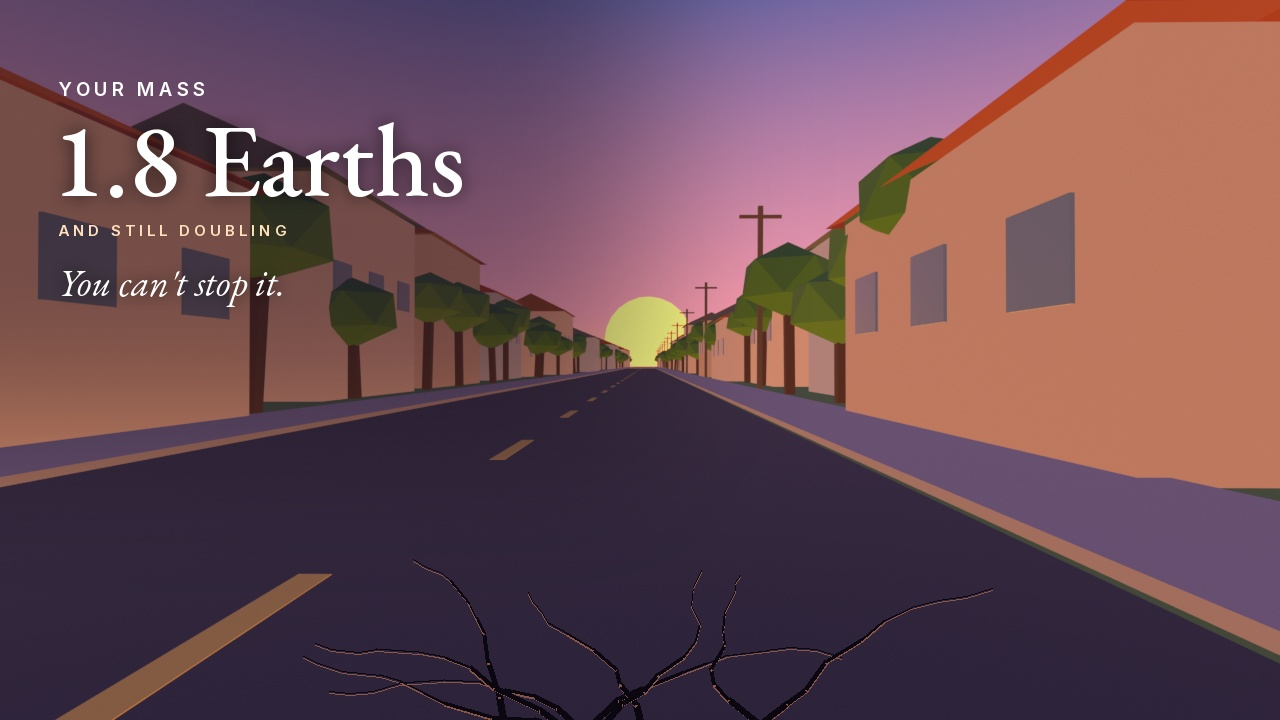
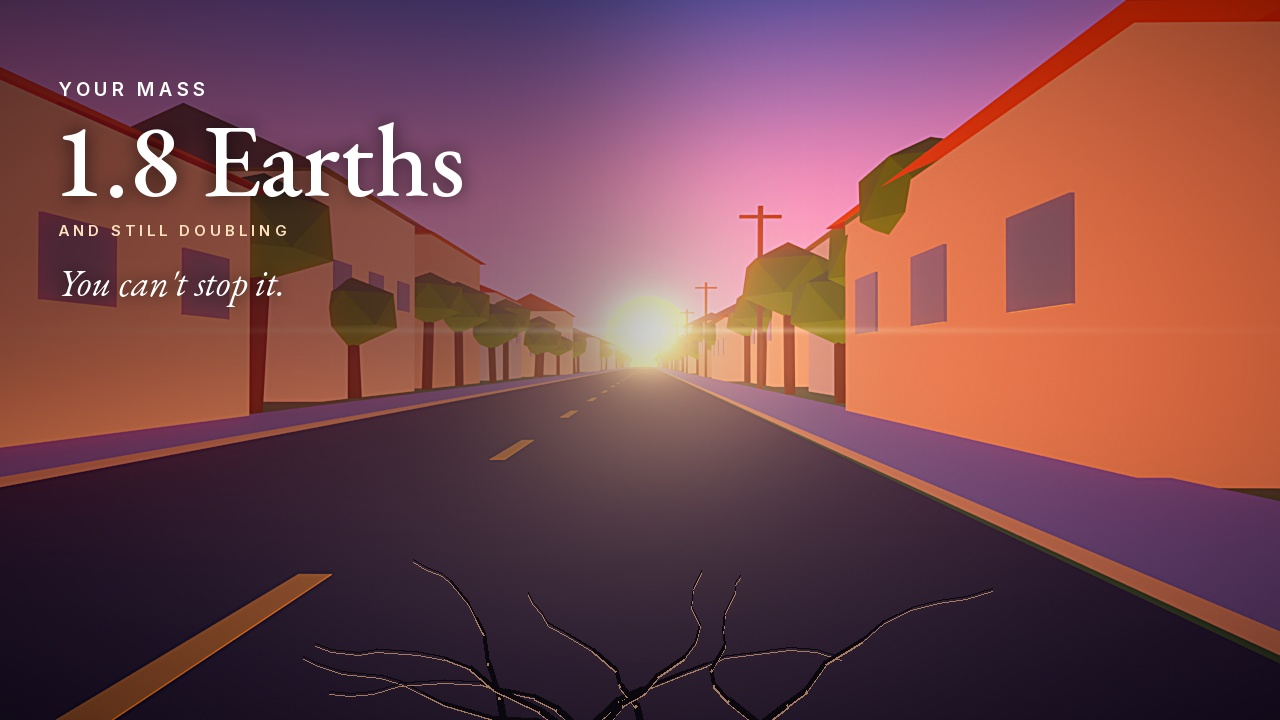
thumbnails: shared glossy grade (contrast, bloom, sun glare, vignette); heavier thumb regraded
Claude-Session: https://claude.ai/code/session_01FNnmkGfER4r5SN9xakUNnH

diff --git a/tools/thumbgrade.py b/tools/thumbgrade.py
@@ -1,0 +1,39 @@
+"""Shared 'glossy' grade for thumbnails: deep blacks, S-curve contrast, saturation, a blown-out light source
+with bloom + glare, vignette and a light sharpen. Turns a flat low-poly render into a punchy, lit-looking frame.
+grade(im, light=(x, y) or None, glow_color=(r, g, b)) -> RGBA image"""
+import numpy as np
+from PIL import Image, ImageFilter
+
+
+def grade(im, light=None, glow_color=(255, 214, 160), strength=1.0):
+    im = im.convert("RGB"); W, H = im.size
+    a = np.asarray(im).astype(np.float32) / 255.0
+    # 1. crush blacks a bit + filmic S-curve
+    a = np.clip((a - 0.04) / 0.96, 0, 1)
+    a = a * a * (3 - 2 * a) * 0.55 + a * 0.45
+    # 2. saturation (luma-preserving)
+    l = (a @ np.array([0.2126, 0.7152, 0.0722], np.float32))[..., None]
+    a = np.clip(l + (a - l) * (1 + 0.25 * strength), 0, 1)
+    out = Image.fromarray((a * 255).astype(np.uint8))
+    # 3. bloom from highlights
+    hi = np.clip((a - 0.72) / 0.28, 0, 1) ** 1.5
+    hl = Image.fromarray((hi * 255).astype(np.uint8))
+    bloom = np.zeros_like(a)
+    for r, w in ((8, 0.6), (30, 0.6), (90, 0.5)):
+        bloom += np.asarray(hl.filter(ImageFilter.GaussianBlur(r))).astype(np.float32) / 255.0 * w
+    a = np.asarray(out).astype(np.float32) / 255.0
+    a = 1 - (1 - a) * (1 - np.clip(bloom * 0.8 * strength, 0, 1))      # screen blend
+    # 4. glare from the light source: hot core + wide warm halo
+    yy, xx = np.mgrid[0:H, 0:W].astype(np.float32)
+    if light:
+        d = np.hypot(xx - light[0], (yy - light[1]) * 1.15) / W
+        gc = np.array(glow_color, np.float32) / 255.0
+        halo = (np.exp(-(d / 0.035) ** 2) * 1.0 + np.exp(-(d / 0.12) ** 2) * 0.45 + np.exp(-(d / 0.35) ** 2) * 0.22) * strength
+        a = 1 - (1 - a) * (1 - np.clip(halo[..., None] * gc, 0, 1))
+        streak = np.exp(-((yy - light[1]) / 3.5) ** 2) * np.exp(-np.abs(xx - light[0]) / (W * 0.18)) * 0.55 * strength
+        a = 1 - (1 - a) * (1 - np.clip(streak[..., None] * gc, 0, 1))
+    # 5. vignette
+    v = np.hypot((xx - W / 2) / (W / 2), (yy - H / 2) / (H / 2))
+    a *= (1 - 0.42 * np.clip(v - 0.45, 0, 1) ** 1.6)[..., None]
+    out = Image.fromarray((np.clip(a, 0, 1) * 255).astype(np.uint8))
+    return out.filter(ImageFilter.UnsharpMask(radius=2, percent=60, threshold=2)).convert("RGBA")

diff --git a/videos/heavier/thumbnail.py b/videos/heavier/thumbnail.py
@@ -1,11 +1,14 @@
 """Thumbnail: sunset street POV (scene.py --act surface --thumb 1 --times 300) + asphalt cracks + headline.
 Usage: python3 thumbnail.py SRC.png OUT.jpg"""
 import math, os, random, sys
+sys.path.insert(0, os.path.join(os.path.dirname(os.path.abspath(__file__)), "..", "..", "tools"))
+from thumbgrade import grade
 from PIL import Image, ImageDraw, ImageFilter, ImageFont
 FONTS = os.path.join(os.path.dirname(os.path.abspath(__file__)), "..", "..", "fonts")
 src, out = sys.argv[1], sys.argv[2]
 im = Image.open(src).convert("RGBA").resize((1280, 720))
 W, H = im.size
+im = grade(im, light=(645, 330), glow_color=(255, 200, 150))
 # cracks spreading on the asphalt from under you (bottom centre) toward the horizon
 rnd = random.Random(4); cr = Image.new("RGBA", im.size, (0, 0, 0, 0)); cd = ImageDraw.Draw(cr)
 for i in range(9):
@@ -14,7 +17,7 @@ for i in range(9):
         a += rnd.uniform(-0.45, 0.45); L = rnd.uniform(30, 70) * (1 - k * 0.07)
         nx, ny = x + math.cos(a) * L, y + math.sin(a) * L * 0.55
         if ny < 455: break
-        cd.line([(x, y + 2), (nx, ny + 2)], fill=(255, 150, 90, 110), width=max(1, int(w * 0.7))); cd.line([(x, y), (nx, ny)], fill=(10, 6, 14, 245), width=max(1, int(w))); x, y = nx, ny; w *= 0.8
+        cd.line([(x, y + 3), (nx, ny + 3)], fill=(255, 190, 130, 150), width=max(1, int(w * 0.6))); cd.line([(x, y), (nx, ny)], fill=(10, 6, 14, 245), width=max(1, int(w))); x, y = nx, ny; w *= 0.8
 im.alpha_composite(cr)
 # soft dark gradient on the left for legibility
 sh = Image.new("RGBA", im.size, (0, 0, 0, 0)); ImageDraw.Draw(sh).rectangle([0, 0, 640, 430], fill=(15, 10, 30, 120))
